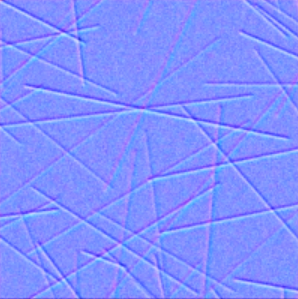
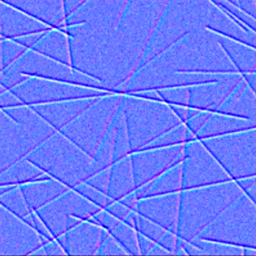
+ Brute force P-NDF

diff --git a/ndf/ndf/ndf/pcg32.h b/ndf/ndf/ndf/pcg32.h
@@ -1,0 +1,201 @@
+/*
+ * Tiny self-contained version of the PCG Random Number Generation for C++
+ * put together from pieces of the much larger C/C++ codebase.
+ * Wenzel Jakob, February 2015
+ *
+ * The PCG random number generator was developed by Melissa O'Neill <oneill@pcg-random.org>
+ *
+ * Licensed under the Apache License, Version 2.0 (the "License");
+ * you may not use this file except in compliance with the License.
+ * You may obtain a copy of the License at
+ *
+ *     http://www.apache.org/licenses/LICENSE-2.0
+ *
+ * Unless required by applicable law or agreed to in writing, software
+ * distributed under the License is distributed on an "AS IS" BASIS,
+ * WITHOUT WARRANTIES OR CONDITIONS OF ANY KIND, either express or implied.
+ * See the License for the specific language governing permissions and
+ * limitations under the License.
+ *
+ * For additional information about the PCG random number generation scheme,
+ * including its license and other licensing options, visit
+ *
+ *     http://www.pcg-random.org
+ */
+
+#ifndef __PCG32_H
+#define __PCG32_H 1
+
+#define PCG32_DEFAULT_STATE  0x853c49e6748fea9bULL
+#define PCG32_DEFAULT_STREAM 0xda3e39cb94b95bdbULL
+#define PCG32_MULT           0x5851f42d4c957f2dULL
+
+#include <inttypes.h>
+#include <cmath>
+#include <cassert>
+
+/// PCG32 Pseudorandom number generator
+struct pcg32 {
+    /// Initialize the pseudorandom number generator with default seed
+    pcg32() : state(PCG32_DEFAULT_STATE), inc(PCG32_DEFAULT_STREAM) {}
+
+    /// Initialize the pseudorandom number generator with the \ref seed() function
+    pcg32(uint64_t initstate, uint64_t initseq = 1u) { seed(initstate, initseq); }
+
+    /**
+     * \brief Seed the pseudorandom number generator
+     *
+     * Specified in two parts: a state initializer and a sequence selection
+     * constant (a.k.a. stream id)
+     */
+    void seed(uint64_t initstate, uint64_t initseq = 1) {
+        state = 0U;
+        inc = (initseq << 1u) | 1u;
+        nextUInt();
+        state += initstate;
+        nextUInt();
+    }
+
+    /// Generate a uniformly distributed unsigned 32-bit random number
+    uint32_t nextUInt() {
+        uint64_t oldstate = state;
+        state = oldstate * PCG32_MULT + inc;
+        uint32_t xorshifted = (uint32_t) (((oldstate >> 18u) ^ oldstate) >> 27u);
+        uint32_t rot = (uint32_t) (oldstate >> 59u);
+        return (xorshifted >> rot) | (xorshifted << ((~rot + 1u) & 31));
+    }
+
+    /// Generate a uniformly distributed number, r, where 0 <= r < bound
+    uint32_t nextUInt(uint32_t bound) {
+        // To avoid bias, we need to make the range of the RNG a multiple of
+        // bound, which we do by dropping output less than a threshold.
+        // A naive scheme to calculate the threshold would be to do
+        //
+        //     uint32_t threshold = 0x100000000ull % bound;
+        //
+        // but 64-bit div/mod is slower than 32-bit div/mod (especially on
+        // 32-bit platforms).  In essence, we do
+        //
+        //     uint32_t threshold = (0x100000000ull-bound) % bound;
+        //
+        // because this version will calculate the same modulus, but the LHS
+        // value is less than 2^32.
+
+        uint32_t threshold = (~bound+1u) % bound;
+
+        // Uniformity guarantees that this loop will terminate.  In practice, it
+        // should usually terminate quickly; on average (assuming all bounds are
+        // equally likely), 82.25% of the time, we can expect it to require just
+        // one iteration.  In the worst case, someone passes a bound of 2^31 + 1
+        // (i.e., 2147483649), which invalidates almost 50% of the range.  In
+        // practice, bounds are typically small and only a tiny amount of the range
+        // is eliminated.
+        for (;;) {
+            uint32_t r = nextUInt();
+            if (r >= threshold)
+                return r % bound;
+        }
+    }
+
+    /// Generate a single precision floating point value on the interval [0, 1)
+    float nextFloat() {
+        /* Trick from MTGP: generate an uniformly distributed
+           single precision number in [1,2) and subtract 1. */
+        union {
+            uint32_t u;
+            float f;
+        } x;
+        x.u = (nextUInt() >> 9) | 0x3f800000UL;
+        return x.f - 1.0f;
+    }
+
+    /**
+     * \brief Generate a double precision floating point value on the interval [0, 1)
+     *
+     * \remark Since the underlying random number generator produces 32 bit output,
+     * only the first 32 mantissa bits will be filled (however, the resolution is still
+     * finer than in \ref nextFloat(), which only uses 23 mantissa bits)
+     */
+    double nextDouble() {
+        /* Trick from MTGP: generate an uniformly distributed
+           double precision number in [1,2) and subtract 1. */
+        union {
+            uint64_t u;
+            double d;
+        } x;
+        x.u = ((uint64_t) nextUInt() << 20) | 0x3ff0000000000000ULL;
+        return x.d - 1.0;
+    }
+
+    /**
+     * \brief Multi-step advance function (jump-ahead, jump-back)
+     *
+     * The method used here is based on Brown, "Random Number Generation
+     * with Arbitrary Stride", Transactions of the American Nuclear
+     * Society (Nov. 1994). The algorithm is very similar to fast
+     * exponentiation.
+     */
+    void advance(int64_t delta_) {
+        uint64_t
+            cur_mult = PCG32_MULT,
+            cur_plus = inc,
+            acc_mult = 1u,
+            acc_plus = 0u;
+
+        /* Even though delta is an unsigned integer, we can pass a signed
+           integer to go backwards, it just goes "the long way round". */
+        uint64_t delta = (uint64_t) delta_;
+
+        while (delta > 0) {
+            if (delta & 1) {
+                acc_mult *= cur_mult;
+                acc_plus = acc_plus * cur_mult + cur_plus;
+            }
+            cur_plus = (cur_mult + 1) * cur_plus;
+            cur_mult *= cur_mult;
+            delta /= 2;
+        }
+        state = acc_mult * state + acc_plus;
+    }
+
+    /**
+     * \brief Draw uniformly distributed permutation and permute the
+     * given STL container
+     *
+     * From: Knuth, TAoCP Vol. 2 (3rd 3d), Section 3.4.2
+     */
+    template <typename Iterator> void shuffle(Iterator begin, Iterator end) {
+        for (Iterator it = end - 1; it > begin; --it)
+            std::iter_swap(it, begin + nextUInt((uint32_t) (it - begin + 1)));
+    }
+
+    /// Compute the distance between two PCG32 pseudorandom number generators
+    int64_t operator-(const pcg32 &other) const {
+        assert(inc == other.inc);
+
+        uint64_t
+            cur_mult = PCG32_MULT,
+            cur_plus = inc,
+            cur_state = other.state,
+            the_bit = 1u,
+            distance = 0u;
+
+        while (state != cur_state) {
+            if ((state & the_bit) != (cur_state & the_bit)) {
+                cur_state = cur_state * cur_mult + cur_plus;
+                distance |= the_bit;
+            }
+            assert((state & the_bit) == (cur_state & the_bit));
+            the_bit <<= 1;
+            cur_plus = (cur_mult + 1ULL) * cur_plus;
+            cur_mult *= cur_mult;
+        }
+
+        return (int64_t) distance;
+    }
+
+    uint64_t state;  // RNG state.  All values are possible.
+    uint64_t inc;    // Controls which RNG sequence (stream) is selected. Must *always* be odd.
+};
+
+#endif // __PCG32_H

diff --git a/ndf/ndf/ndf/main.cpp b/ndf/ndf/ndf/main.cpp
@@ -1,33 +1,61 @@
 #include <SFML/Graphics.hpp>
 
+#include "pcg32.h"
 #include "globals.h"
 #include "NaiveEstimator.h"
 
 void GenerateNDF(sf::Image& image, NaiveEstimator& estimator, int width, int height)
 {
 	image.create(width, height, sf::Color::Black);
+	pcg32 random(0);
+
+	int sampleCount = 8;
+
+	float * data = new float[width * height];
 
 	for (int x = 0; x < width; x++)
 	{
 		for (int y = 0; y < height; y++)
 		{
-			float s = (x / (float) width) * 2.f - 1.f;
-			float t = (y / (float) height) * 2.f - 1.f;
-			float v2 = 1.f - (s * s) - (t * t);
-
 			float ndf = 0.f;
 
-			if (v2 > 0.f)
+			for (int sample = 0; sample < sampleCount; sample++)
 			{
-				float v = std::sqrt(v2);
-				Vector3f w = glm::normalize(Vector3f(s, t, v));
-				ndf = estimator.Estimate(w);
+				float fX = x + random.nextFloat();
+				float fY = y + random.nextFloat();
+
+				float s = (fX / width) * 2.f - 1.f;
+				float t = (fY / height) * 2.f - 1.f;
+				float v2 = 1.f - (s * s) - (t * t);
+
+				if (v2 > 0.f)
+				{
+					float v = std::sqrt(v2);
+					Vector3f w = glm::normalize(Vector3f(s, t, v));
+					ndf += estimator.Estimate(w);
+				}
 			}
 
-			int g = glm::clamp(ndf, 0.f, 1.f) * 255;
-			image.setPixel(x, y, sf::Color(g,g,g));
+			data[y * width + x] = ndf / sampleCount;
 		}
 	}
+
+	float maxValue = 0.f;
+
+	for (int x = 0; x < width; x++)
+		for (int y = 0; y < height; y++)
+			maxValue = glm::max(data[y * width + x], maxValue);
+
+	for (int x = 0; x < width; x++)
+	{
+		for (int y = 0; y < height; y++)
+		{
+			int g = glm::clamp(data[y  * width + x] / maxValue, 0.f, 1.f) * 255;
+			image.setPixel(x, y, sf::Color(g, g, g));
+		}
+	}
+
+	delete[] data;
 }
 
 int main()
@@ -37,7 +65,7 @@ int main()
 	sf::RenderWindow window(sf::VideoMode(width, height), "NDF Estimator");
 	sf::RectangleShape background(sf::Vector2f(width, height));
 
-	NaiveEstimator estimator("normal3.png");
+	NaiveEstimator estimator("normal5.png");
 
 	sf::Image image;
 	GenerateNDF(image, estimator, width, height);

diff --git a/ndf/ndf/ndf/NaiveEstimator.cpp b/ndf/ndf/ndf/NaiveEstimator.cpp
@@ -1,7 +1,8 @@
 #include "NaiveEstimator.h"
 #include <SFML\Graphics.hpp>
+#include "globals.h"
 
-#define BINS_COUNT 128
+#define BINS_COUNT 8
 
 NaiveEstimator::NaiveEstimator(std::string normalMapFilename) : normalMap(nullptr), normalMapWidth(100), normalMapHeight(100)
 {
@@ -14,12 +15,11 @@ NaiveEstimator::~NaiveEstimator()
 
 float NaiveEstimator::Estimate(const glm::vec3 & w)
 {
-	int bins[BINS_COUNT] = { 0 };
-
 	Vector2i from(0, 0);
-	Vector2i to(16, 16);
+	Vector2i to(128, 128);
 
-	int pixels = (to.x - from.x) * (to.y - from.y);
+	int pixels = glm::abs((to.x - from.x) * (to.y - from.y));
+	float ndf = 0.f;
 
 	for (int x = from.x; x < to.x; x++)
 	{
@@ -28,16 +28,10 @@ float NaiveEstimator::Estimate(const glm::vec3 & w)
 			int i = (y * normalMapWidth) + x;
 			Vector3f wh = this->normalMap[i];
 
-			float d = glm::clamp(glm::dot(wh, w), 0.f, 1.f);
-
-			int bin = (BINS_COUNT - 1) * d;
-			bins[bin]++;
+			float d = glm::clamp(glm::dot(wh, w), 0.f, 0.9999f);
+			ndf += 1.f / (1.f - d);
 		}
 	}
-
-	float ndf = 0.f;
-	for (int b = 0; b < BINS_COUNT; b++)
-		ndf = std::max(ndf, bins[b] * (b / (float)BINS_COUNT));
 
 	return ndf / pixels;
 }
